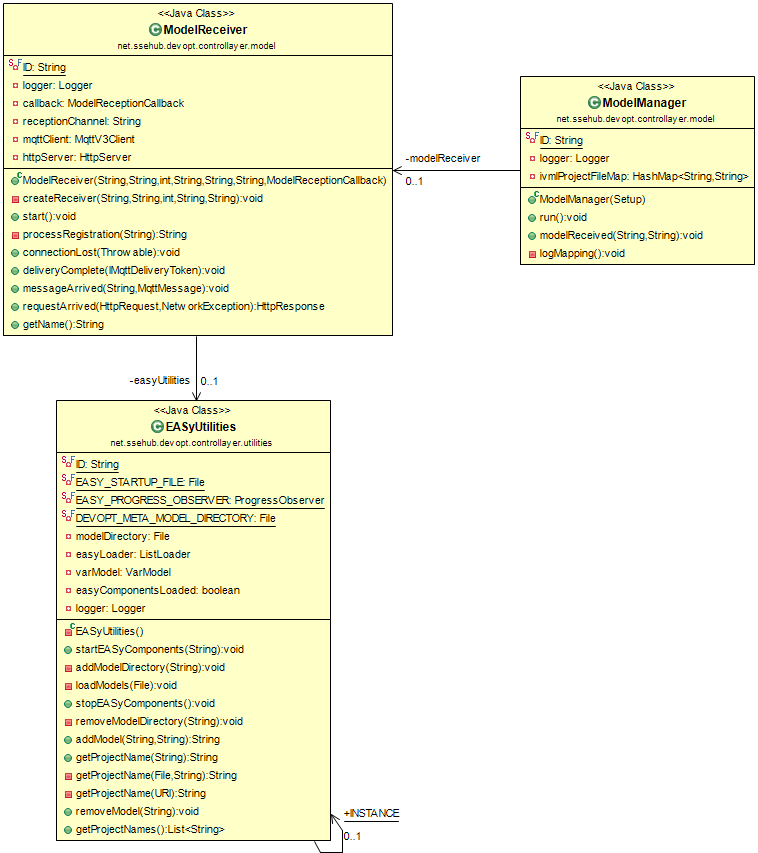
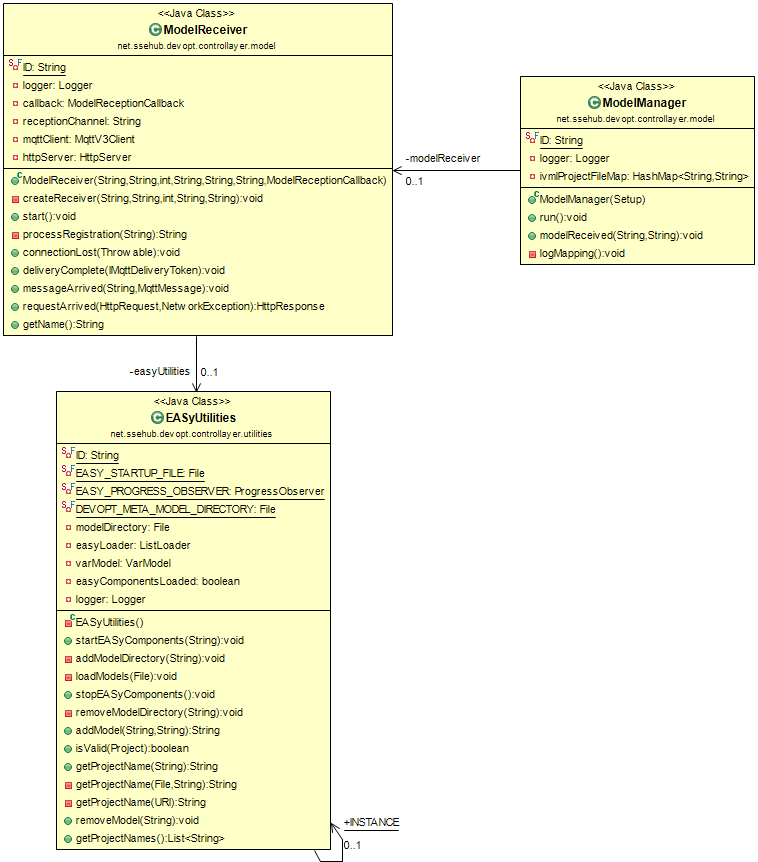
Include project validation

diff --git a/src/net/ssehub/devopt/controllayer/utilities/EASyUtilities.java b/src/net/ssehub/devopt/controllayer/utilities/EASyUtilities.java
@@ -288,6 +288,16 @@ public class EASyUtilities {
     }
     
     /**
+     * TODO .
+     * @param ivmlProject TODO
+     * @return TODO
+     */
+    public synchronized boolean isValid(Project ivmlProject) {
+        // TODO implement validation using the reasoner
+        return false;
+    }
+    
+    /**
      * Returns the name of the IVML project defined in the file denoted by the given model file name. This file must be
      * available in the {@link #modelDirectory}.
      * 
